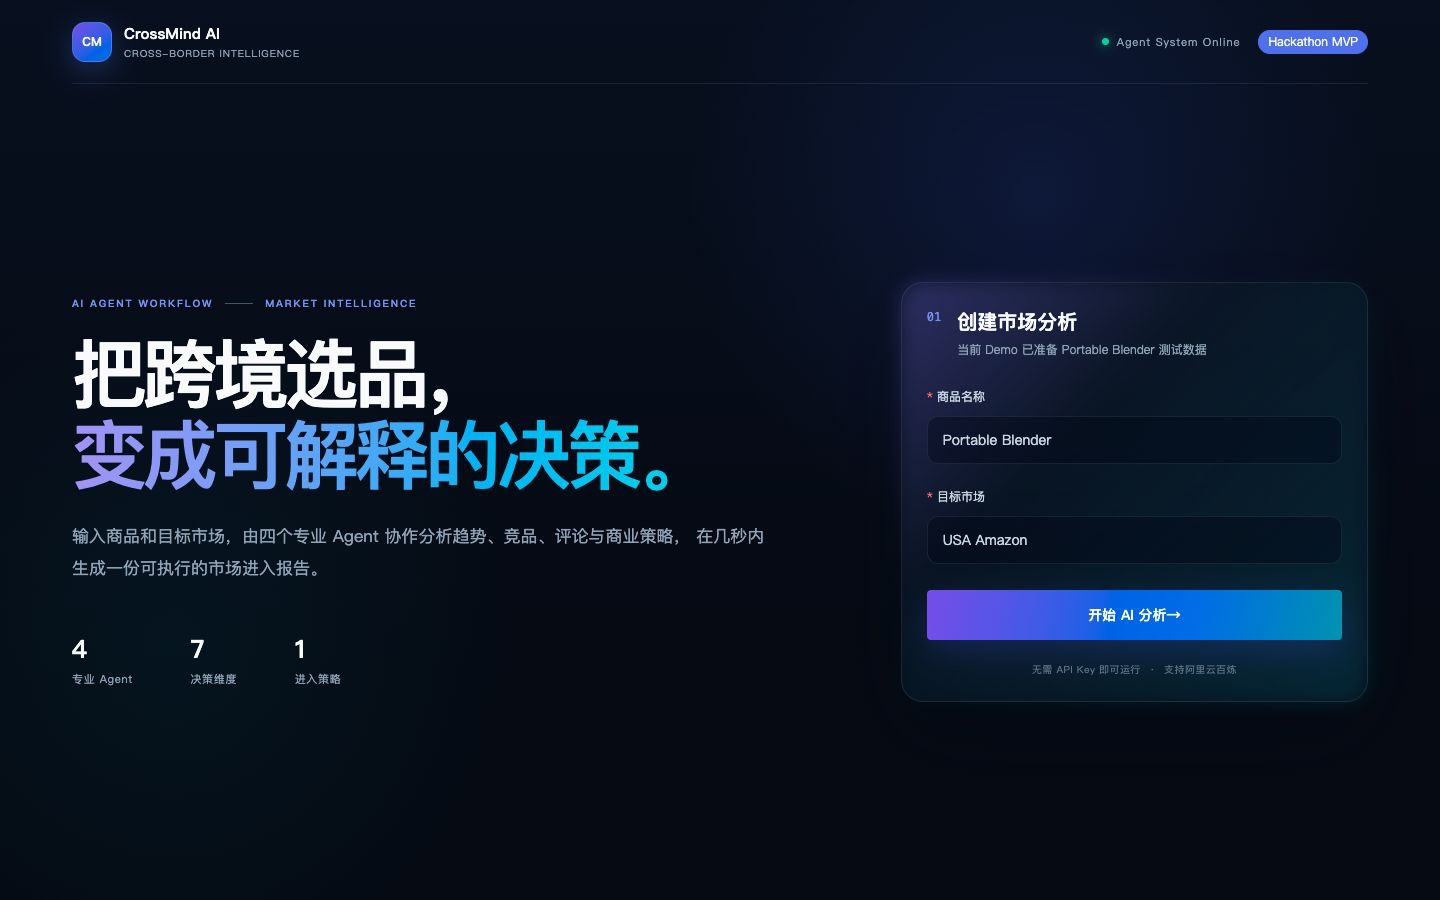
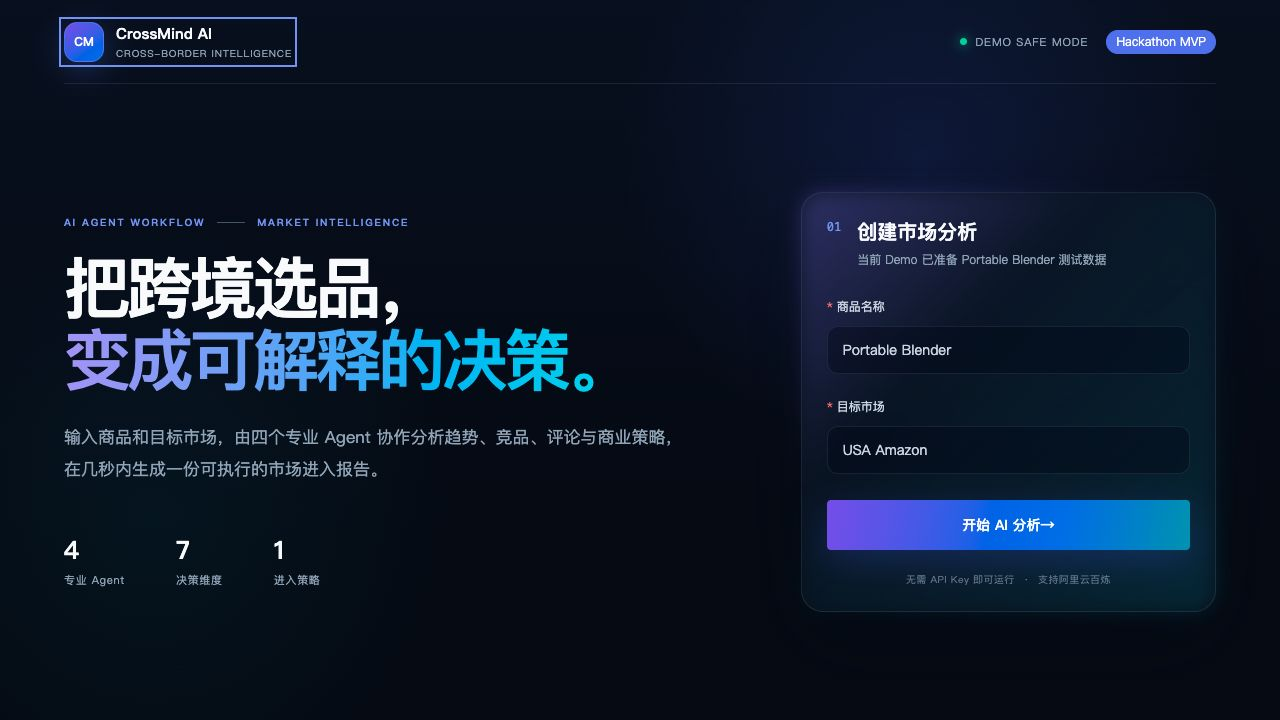
feat: prepare CrossMind AI final round submission

diff --git a/frontend/src/App.vue b/frontend/src/App.vue
@@ -1,5 +1,5 @@
 <script setup>
-import { computed, defineAsyncComponent, onBeforeUnmount, reactive, ref } from 'vue'
+import { computed, defineAsyncComponent, onBeforeUnmount, onMounted, reactive, ref } from 'vue'
 import {
   ElAlert,
   ElButton,
@@ -11,7 +11,7 @@ import {
   ElProgress,
   ElTag,
 } from 'element-plus'
-import { createAnalysis, getAnalysis } from './api/analysis'
+import { createAnalysis, getAnalysis, getHealth } from './api/analysis'
 
 const ScoreGauge = defineAsyncComponent(() => import('./components/ScoreGauge.vue'))
 
@@ -37,12 +37,13 @@ const submitting = ref(false)
 const analysisId = ref('')
 const analysis = ref(null)
 const workflowError = ref('')
+const aiRuntime = ref(null)
 let pollTimer
 let consecutivePollErrors = 0
 
 const displayTasks = computed(() => agentDefinitions.map((definition) => {
   const liveTask = analysis.value?.agentTasks?.find((task) => task.agentType === definition.type)
-  return { ...definition, status: liveTask?.status || 'PENDING' }
+  return { ...definition, status: liveTask?.status || 'PENDING', result: liveTask?.result || null }
 }))
 
 const progressPercent = computed(() => {
@@ -145,6 +146,21 @@ function taskStatusClass(status) {
   return status.toLowerCase()
 }
 
+function taskResultSummary(task) {
+  const result = task.result
+  if (!result) return ''
+  return result.summary || result.strategy || result.marketingSuggestion || ''
+}
+
+async function loadRuntime() {
+  try {
+    aiRuntime.value = (await getHealth()).ai
+  } catch {
+    aiRuntime.value = null
+  }
+}
+
+onMounted(loadRuntime)
 onBeforeUnmount(clearPollTimer)
 </script>
 
@@ -159,7 +175,9 @@ onBeforeUnmount(clearPollTimer)
         </span>
       </button>
       <div class="topbar-meta">
-        <span class="live-indicator"><i></i> Agent System Online</span>
+        <span class="live-indicator"><i></i>
+          {{ aiRuntime?.live ? `${aiRuntime.model} · REAL AI` : 'DEMO SAFE MODE' }}
+        </span>
         <ElTag effect="dark" round>Hackathon MVP</ElTag>
       </div>
     </header>
@@ -240,6 +258,7 @@ onBeforeUnmount(clearPollTimer)
               <div class="task-copy">
                 <strong>{{ task.name }} Agent</strong>
                 <span>{{ task.description }}</span>
+                <small v-if="taskResultSummary(task)" class="task-result">{{ taskResultSummary(task) }}</small>
               </div>
               <span class="task-status">{{ taskStatusLabel(task.status) }}</span>
             </article>
@@ -377,7 +396,7 @@ onBeforeUnmount(clearPollTimer)
 .form-footnote { display: flex; justify-content: center; gap: 9px; margin-top: 22px; color: #64748b; font-size: 10px; letter-spacing: .04em; }
 .analysis-view { min-height: calc(100vh - 85px); padding: 64px 0 90px; }.analysis-heading { text-align: center; }.eyebrow-simple { margin: 0 0 13px; color: #818cf8 !important; font-size: 10px !important; font-weight: 750; letter-spacing: .2em; }.analysis-heading h1, .report-header h1 { margin: 0; font-size: clamp(34px, 4vw, 54px); letter-spacing: -.035em; }.analysis-heading > p { color: var(--muted); font-size: 14px; }.task-id { display: inline-block; margin-top: 8px; padding: 7px 12px; border: 1px solid var(--border); border-radius: 99px; color: #64748b; font: 10px ui-monospace, monospace; letter-spacing: .12em; }
 .workflow-layout { display: grid; grid-template-columns: minmax(0, 1.25fr) minmax(300px, .6fr); gap: 24px; max-width: 1050px; margin: 46px auto 0; }.workflow-progress > div { display: flex; justify-content: space-between; margin-bottom: 12px; color: var(--muted); font-size: 12px; }.workflow-progress strong { color: #c4b5fd; font: 13px ui-monospace, monospace; }
-.agent-list { margin-top: 24px; }.agent-task { display: grid; grid-template-columns: 34px 34px 1fr auto; gap: 13px; align-items: center; min-height: 78px; padding: 13px 4px; border-top: 1px solid rgba(148, 163, 184, .09); opacity: .48; transition: .3s ease; }.agent-task.running, .agent-task.completed { opacity: 1; }.task-number { color: #475569; font: 10px ui-monospace, monospace; }.task-status-icon { display: grid; place-items: center; width: 30px; height: 30px; border: 1px solid #334155; border-radius: 10px; color: #64748b; }.task-status-icon i { width: 9px; height: 9px; border-radius: 50%; background: #818cf8; box-shadow: 0 0 15px #6366f1; animation: pulse 1.2s infinite; }.completed .task-status-icon { color: #34d399; border-color: rgba(52, 211, 153, .35); background: rgba(16, 185, 129, .08); }.failed .task-status-icon { color: #fb7185; border-color: rgba(251, 113, 133, .35); }.task-copy { display: grid; gap: 5px; }.task-copy strong { font-size: 14px; }.task-copy span { color: var(--muted); font-size: 11px; }.task-status { color: #64748b; font-size: 10px; }.running .task-status { color: #a78bfa; }.completed .task-status { color: #34d399; }
+.agent-list { margin-top: 24px; }.agent-task { display: grid; grid-template-columns: 34px 34px 1fr auto; gap: 13px; align-items: center; min-height: 78px; padding: 13px 4px; border-top: 1px solid rgba(148, 163, 184, .09); opacity: .48; transition: .3s ease; }.agent-task.running, .agent-task.completed { opacity: 1; }.task-number { color: #475569; font: 10px ui-monospace, monospace; }.task-status-icon { display: grid; place-items: center; width: 30px; height: 30px; border: 1px solid #334155; border-radius: 10px; color: #64748b; }.task-status-icon i { width: 9px; height: 9px; border-radius: 50%; background: #818cf8; box-shadow: 0 0 15px #6366f1; animation: pulse 1.2s infinite; }.completed .task-status-icon { color: #34d399; border-color: rgba(52, 211, 153, .35); background: rgba(16, 185, 129, .08); }.failed .task-status-icon { color: #fb7185; border-color: rgba(251, 113, 133, .35); }.task-copy { display: grid; gap: 5px; min-width: 0; }.task-copy strong { font-size: 14px; }.task-copy span { color: var(--muted); font-size: 11px; }.task-result { overflow: hidden; color: #c4b5fd; font-size: 11px; line-height: 1.5; text-overflow: ellipsis; white-space: nowrap; }.task-status { color: #64748b; font-size: 10px; }.running .task-status { color: #a78bfa; }.completed .task-status { color: #34d399; }
 .agent-console { position: relative; display: flex; min-height: 410px; flex-direction: column; align-items: center; justify-content: center; overflow: hidden; border: 1px solid rgba(99, 102, 241, .18); border-radius: 22px; background: rgba(7, 11, 23, .76); text-align: center; }.console-glow { position: absolute; width: 240px; height: 240px; border-radius: 50%; background: rgba(79, 70, 229, .14); filter: blur(54px); }.agent-console > p { color: #64748b; font-size: 9px; letter-spacing: .2em; }.agent-console h2 { margin: 22px 0 8px; font-size: 18px; }.agent-console > span { max-width: 220px; color: var(--muted); font-size: 11px; line-height: 1.6; }.orb { position: relative; display: grid; place-items: center; width: 102px; height: 102px; margin-top: 20px; border: 1px solid rgba(129, 140, 248, .26); border-radius: 50%; background: radial-gradient(circle, rgba(99, 102, 241, .35), rgba(30, 41, 59, .08) 65%); box-shadow: 0 0 48px rgba(99, 102, 241, .24); }.orb::before, .orb::after { content: ''; position: absolute; inset: -11px; border: 1px solid rgba(129, 140, 248, .2); border-radius: 50%; animation: spin 7s linear infinite; border-top-color: #818cf8; }.orb::after { inset: 13px; animation-direction: reverse; animation-duration: 4s; }.orb > span { width: 20px; height: 20px; border-radius: 50%; background: #818cf8; box-shadow: 0 0 28px #6366f1; }.orb.complete > span { display: grid; place-items: center; width: 38px; height: 38px; color: white; background: #10b981; }.signal-lines { display: flex; align-items: center; gap: 4px; height: 30px; margin-top: 24px; }.signal-lines i { width: 2px; height: 8px; background: #6366f1; animation: signal .8s ease-in-out infinite alternate; }.signal-lines i:nth-child(2), .signal-lines i:nth-child(4) { animation-delay: .2s; }.signal-lines i:nth-child(3) { animation-delay: .4s; }
 .workflow-error { max-width: 1050px; margin: 20px auto 0; }.error-actions { margin-top: 10px; }
 .report-view { padding: 54px 0 70px; }.report-header { display: flex; align-items: end; justify-content: space-between; gap: 30px; margin-bottom: 36px; }.report-header > div:first-child { min-width: 0; }.report-header h1 { overflow-wrap: anywhere; }.report-header p:last-child { color: var(--muted); }.report-actions { display: flex; gap: 10px; }.report-grid { display: grid; gap: 18px; }.report-summary { grid-template-columns: .8fr .8fr 1.4fr; }.report-summary > * { min-width: 0; }.score-card :deep(.el-card__body) { display: flex; height: 100%; flex-direction: column; align-items: center; justify-content: center; gap: 4px; }.summary-stack { display: grid; gap: 18px; }.metric-card :deep(.el-card__body) { display: flex; height: 100%; flex-direction: column; }.metric-card span, .section-label { color: var(--muted); font-size: 10px; letter-spacing: .12em; text-transform: uppercase; }.metric-card strong { margin: auto 0 8px; font-size: 30px; }.metric-card small { color: #64748b; line-height: 1.5; }.strategy-card :deep(.el-card__body) { display: flex; height: 100%; flex-direction: column; }.strategy-card blockquote { margin: auto 0; overflow-wrap: anywhere; font-size: clamp(21px, 2.2vw, 30px); font-weight: 650; line-height: 1.55; letter-spacing: -.02em; }.strategy-meta { display: flex; justify-content: space-between; padding-top: 20px; border-top: 1px solid var(--border); color: #64748b; font: 9px ui-monospace, monospace; letter-spacing: .1em; }

diff --git a/frontend/src/api/analysis.js b/frontend/src/api/analysis.js
@@ -18,3 +18,7 @@ export async function getAnalysis(analysisId) {
   return data
 }
 
+export async function getHealth() {
+  const { data } = await apiClient.get('/api/health')
+  return data
+}

diff --git a/backend/src/main/java/com/crossmind/ai/service/AnalysisService.java b/backend/src/main/java/com/crossmind/ai/service/AnalysisService.java
@@ -19,6 +19,7 @@ import com.crossmind.ai.model.ProductAnalysis;
 import com.crossmind.ai.repository.AgentTaskRepository;
 import com.crossmind.ai.repository.ProductAnalysisRepository;
 import com.fasterxml.jackson.core.JsonProcessingException;
+import com.fasterxml.jackson.databind.JsonNode;
 import com.fasterxml.jackson.databind.ObjectMapper;
 
 @Service
@@ -62,7 +63,8 @@ public class AnalysisService {
         AnalysisReport report = readReport(analysis);
         List<AgentTaskResponse> agentTasks = taskRepository.findByAnalysis_IdOrderByCreatedTimeAsc(analysisId)
                 .stream()
-                .map(task -> new AgentTaskResponse(task.getAgentType(), task.getStatus()))
+                .map(task -> new AgentTaskResponse(
+                        task.getAgentType(), task.getStatus(), readTaskResult(task.getResult())))
                 .toList();
 
         return new AnalysisDetailResponse(
@@ -92,6 +94,17 @@ public class AnalysisService {
             return objectMapper.readValue(analysis.getResultJson(), AnalysisReport.class);
         } catch (JsonProcessingException exception) {
             throw new IllegalStateException("分析报告 JSON 无法解析", exception);
+        }
+    }
+
+    private JsonNode readTaskResult(String result) {
+        if (result == null || result.isBlank()) {
+            return null;
+        }
+        try {
+            return objectMapper.readTree(result);
+        } catch (JsonProcessingException exception) {
+            throw new IllegalStateException("Agent 任务结果 JSON 无法解析", exception);
         }
     }
 }

diff --git a/backend/src/main/java/com/crossmind/ai/controller/HealthController.java b/backend/src/main/java/com/crossmind/ai/controller/HealthController.java
@@ -6,16 +6,30 @@ import org.springframework.web.bind.annotation.GetMapping;
 import org.springframework.web.bind.annotation.RequestMapping;
 import org.springframework.web.bind.annotation.RestController;
 
+import com.crossmind.ai.service.LLMClient;
+import com.crossmind.ai.service.LLMRuntimeInfo;
+
 @RestController
 @RequestMapping("/api")
 public class HealthController {
 
+    private final LLMClient llmClient;
+
+    public HealthController(LLMClient llmClient) {
+        this.llmClient = llmClient;
+    }
+
     @GetMapping("/health")
-    public Map<String, String> health() {
+    public Map<String, Object> health() {
+        LLMRuntimeInfo runtime = llmClient.runtimeInfo();
         return Map.of(
                 "status", "UP",
-                "service", "crossmind-ai-backend"
+                "service", "crossmind-ai-backend",
+                "ai", Map.of(
+                        "provider", runtime.provider(),
+                        "model", runtime.model(),
+                        "live", runtime.live()
+                )
         );
     }
 }
-

diff --git a/backend/src/test/java/com/crossmind/ai/controller/AnalysisControllerTests.java b/backend/src/test/java/com/crossmind/ai/controller/AnalysisControllerTests.java
@@ -60,7 +60,18 @@ class AnalysisControllerTests {
                 .andExpect(jsonPath("$.productSuggestions.length()").value(3))
                 .andExpect(jsonPath("$.agentTasks.length()").value(4))
                 .andExpect(jsonPath("$.agentTasks[0].status").value("COMPLETED"))
+                .andExpect(jsonPath("$.agentTasks[0].result.summary", notNullValue()))
                 .andExpect(jsonPath("$.agentTasks[3].status").value("COMPLETED"));
+    }
+
+    @Test
+    void exposesSafeAiRuntimeMetadata() throws Exception {
+        mockMvc.perform(get("/api/health"))
+                .andExpect(status().isOk())
+                .andExpect(jsonPath("$.status").value("UP"))
+                .andExpect(jsonPath("$.ai.provider").value("mock"))
+                .andExpect(jsonPath("$.ai.model").value("deterministic-demo"))
+                .andExpect(jsonPath("$.ai.live").value(false));
     }
 
     @Test

diff --git a/backend/src/main/java/com/crossmind/ai/service/BailianLLMClient.java b/backend/src/main/java/com/crossmind/ai/service/BailianLLMClient.java
@@ -47,6 +47,11 @@ public class BailianLLMClient implements LLMClient {
         }
     }
 
+    @Override
+    public LLMRuntimeInfo runtimeInfo() {
+        return new LLMRuntimeInfo("bailian", properties.model(), true);
+    }
+
     private String extractContent(ChatResponse response) {
         if (response == null || response.choices() == null || response.choices().isEmpty()
                 || response.choices().getFirst().message() == null
@@ -69,4 +74,3 @@ public class BailianLLMClient implements LLMClient {
     record Message(String role, String content) {
     }
 }
-

diff --git a/backend/src/main/java/com/crossmind/ai/common/AgentTaskResponse.java b/backend/src/main/java/com/crossmind/ai/common/AgentTaskResponse.java
@@ -2,7 +2,7 @@ package com.crossmind.ai.common;
 
 import com.crossmind.ai.model.AgentTaskStatus;
 import com.crossmind.ai.model.AgentType;
+import com.fasterxml.jackson.databind.JsonNode;
 
-public record AgentTaskResponse(AgentType agentType, AgentTaskStatus status) {
+public record AgentTaskResponse(AgentType agentType, AgentTaskStatus status, JsonNode result) {
 }
-

diff --git a/backend/src/main/java/com/crossmind/ai/service/LLMClient.java b/backend/src/main/java/com/crossmind/ai/service/LLMClient.java
@@ -3,5 +3,9 @@ package com.crossmind.ai.service;
 public interface LLMClient {
 
     String chat(String prompt);
-}
 
+    /** Returns non-sensitive runtime metadata for health checks and Demo display. */
+    default LLMRuntimeInfo runtimeInfo() {
+        return new LLMRuntimeInfo("unknown", "unknown", false);
+    }
+}

diff --git a/backend/src/main/java/com/crossmind/ai/service/MockLLMClient.java b/backend/src/main/java/com/crossmind/ai/service/MockLLMClient.java
@@ -18,5 +18,9 @@ public class MockLLMClient implements LLMClient {
         }
         return "Mock AI 已完成分析。";
     }
-}
 
+    @Override
+    public LLMRuntimeInfo runtimeInfo() {
+        return new LLMRuntimeInfo("mock", "deterministic-demo", false);
+    }
+}

diff --git a/backend/src/main/java/com/crossmind/ai/service/LLMRuntimeInfo.java b/backend/src/main/java/com/crossmind/ai/service/LLMRuntimeInfo.java
@@ -1,0 +1,4 @@
+package com.crossmind.ai.service;
+
+public record LLMRuntimeInfo(String provider, String model, boolean live) {
+}

diff --git a/docs/demo.md b/docs/demo.md
@@ -2,7 +2,7 @@
 
 ## 演示目标
 
-建议将初赛视频控制在 **2 分 30 秒至 3 分钟**，重点证明三件事：产品解决了明确问题、四个 Agent 在真实协作、输出是可以采取行动的商业报告。
+建议将复赛视频控制在 **3 分 30 秒至 4 分钟**，重点证明四件事：产品解决明确问题、四个 Agent 在真实协作、赛事 Token Plan 模型确已调用、输出能转化为行动。
 
 ## 录制前检查
 
@@ -11,20 +11,20 @@
 - 首页能打开，示例为 `Portable Blender / USA Amazon`。
 - 浏览器缩放为 100%，窗口建议使用 1440 × 900 或 1920 × 1080。
 - 关闭无关标签页、通知、密码管理器弹窗和开发者工具。
-- 现场演示建议使用默认 Mock 模式，避免网络波动或 API 配额影响。
+- 正式录制使用百炼 `qwen3.7-plus`，页面右上角应显示 `REAL AI`；另准备 Mock 模式作为现场兜底。
 - 提前试导出一次 PDF，确认浏览器打印窗口可用。
 
 ## 分镜与讲解词
 
 | 时间 | 画面与操作 | 建议讲解 |
 | --- | --- | --- |
-| 00:00–00:15 | 首页与产品标题 | “跨境卖家在选品时，需要分别研究趋势、竞品与评论，过程慢且难以形成统一决策。CrossMind AI 用多个专业 Agent 自动完成这项工作。” |
-| 00:15–00:35 | 展示商品、市场输入框 | “卖家只需输入商品和目标市场。这里我们分析 Portable Blender 是否值得进入美国 Amazon。” |
-| 00:35–01:15 | 点击“开始分析”，停留在 Agent 流程页 | “系统不是只调用一次大模型，而是依次执行市场趋势、竞品、用户洞察和商业策略四个 Agent。每一步都有独立状态和结构化结果。” |
-| 01:15–01:45 | 自动进入报告，展示评分、趋势、竞争 | “最终机会评分为 86 分，市场处于增长阶段，竞争程度中等。结论由前面三个专业 Agent 的结果共同支撑。” |
-| 01:45–02:20 | 向下浏览用户痛点和三类建议 | “评论洞察识别出续航和清洗问题。系统进一步给出产品改进、定价区间和营销方向，使报告从数据描述落到可执行策略。” |
-| 02:20–02:40 | 点击导出 PDF | “报告可以直接导出，方便卖家内部评审和留档。” |
-| 02:40–03:00 | 回到架构图或结尾页 | “项目支持阿里云百炼；没有 Key 时自动使用 Mock。统一 LLM 接口也能继续接入 OpenAI 或本地模型。” |
+| 00:00–00:25 | 首页与产品标题 | “跨境卖家在选品时，需要分别研究趋势、竞品与评论，过程慢且难以形成统一决策。CrossMind AI 用多个专业 Agent 自动完成这项工作。” |
+| 00:25–00:50 | 展示商品、市场输入框及右上角 REAL AI | “卖家只需输入商品和目标市场。本次通过赛事 Token Plan 的 qwen3.7-plus，分析 Portable Blender 是否值得进入美国 Amazon。” |
+| 00:50–01:45 | 点击“开始分析”，停留在 Agent 流程页 | “系统不是只调用一次大模型，而是依次执行市场趋势、竞品、用户洞察和商业策略四个 Agent。每一步都有独立任务、状态、结构化结果和即时结论。” |
+| 01:45–02:25 | 自动进入报告，展示评分、趋势、竞争 | “最终机会评分为 86 分，市场处于增长阶段，竞争程度中等。结论由前面三个专业 Agent 的结果共同支撑。” |
+| 02:25–03:10 | 向下浏览用户痛点和三类建议 | “评论洞察识别出续航、清洗、动力和密封问题。系统进一步给出产品改进、定价区间和营销方向，使报告从数据描述落到可执行策略。” |
+| 03:10–03:30 | 点击导出 PDF | “报告可以直接导出，方便卖家内部评审和留档。” |
+| 03:30–04:00 | 展示架构图和代码仓库 | “模型调用通过统一 LLMClient 解耦，支持百炼与 Mock 切换；应用可一条命令容器部署，具备继续接入真实合规数据源的基础。” |
 
 讲解时不必逐字朗读页面，鼠标应跟随当前重点，避免快速滚动。
 

diff --git a/README.md b/README.md
@@ -4,7 +4,7 @@
 
 CrossMind AI 面向跨境电商卖家。用户只需输入商品与目标市场，系统即可异步执行四个 AI Agent，并生成可导出 PDF 的《商品市场进入分析报告》。项目以黑客松演示为目标，具备完整用户流程、可观察的 Agent 执行过程和无需 API Key 的离线演示能力。
 
-当前状态：**MVP 已完成，可本地运行与录制 Demo。**
+当前状态：**复赛 MVP 已完成，可本地/容器运行、调用赛事 Token Plan，并可录制完整 Demo。**
 
 ## 业务痛点
 
@@ -75,6 +75,8 @@ CrossMind-AI/
 ├── docs/                 # 架构、演示与提交材料
 ├── mock-data/            # 可复现的演示商品数据
 ├── docker-compose.yml    # PostgreSQL 与 Redis
+├── compose.deploy.yml    # 前后端 + 数据服务一键部署
+├── Dockerfile            # 单容器交付 Web 与 API
 └── README.md
 ```
 
@@ -151,11 +153,23 @@ VITE_DEV_PORT=15173 VITE_DEV_API_TARGET=http://localhost:18080 npm run dev
 ```bash
 export DASHSCOPE_API_KEY='your-api-key'
 export AI_PROVIDER='bailian'
-export AI_MODEL='qwen-plus'
+export AI_MODEL='qwen3.7-plus'
+export AI_BASE_URL='https://token-plan.cn-beijing.maas.aliyuncs.com/compatible-mode/v1'
 mvn spring-boot:run
 ```
 
-不要将真实 API Key 写入配置文件或提交到 GitHub。模型地址和超时可通过 `AI_BASE_URL`、`AI_CONNECT_TIMEOUT`、`AI_READ_TIMEOUT` 覆盖；设置 `AI_PROVIDER=mock` 可强制使用 Mock。
+赛事 Token Plan 的 Key 必须和专属基地址配套使用。不要将真实 API Key 写入配置文件或提交到 GitHub。模型地址和超时可通过 `AI_BASE_URL`、`AI_CONNECT_TIMEOUT`、`AI_READ_TIMEOUT` 覆盖；设置 `AI_PROVIDER=mock` 可强制使用 Mock。页面右上角会显示当前是 `REAL AI` 还是安全演示模式，但不会返回或展示密钥。
+
+## 一键容器部署
+
+复制环境变量示例并按需填写；不填写 Key 时也能完整体验 Mock Agent 流程：
+
+```bash
+cp .env.example .env
+docker compose -f compose.deploy.yml up -d --build
+```
+
+浏览器访问 `http://localhost:8080`。该部署会同时启动 Web/API、PostgreSQL 和 Redis，适合云服务器、演示机和评审环境。真实线上环境请修改数据库密码，并通过部署平台的 Secret 功能注入 API Key。
 
 ## API 示例
 
